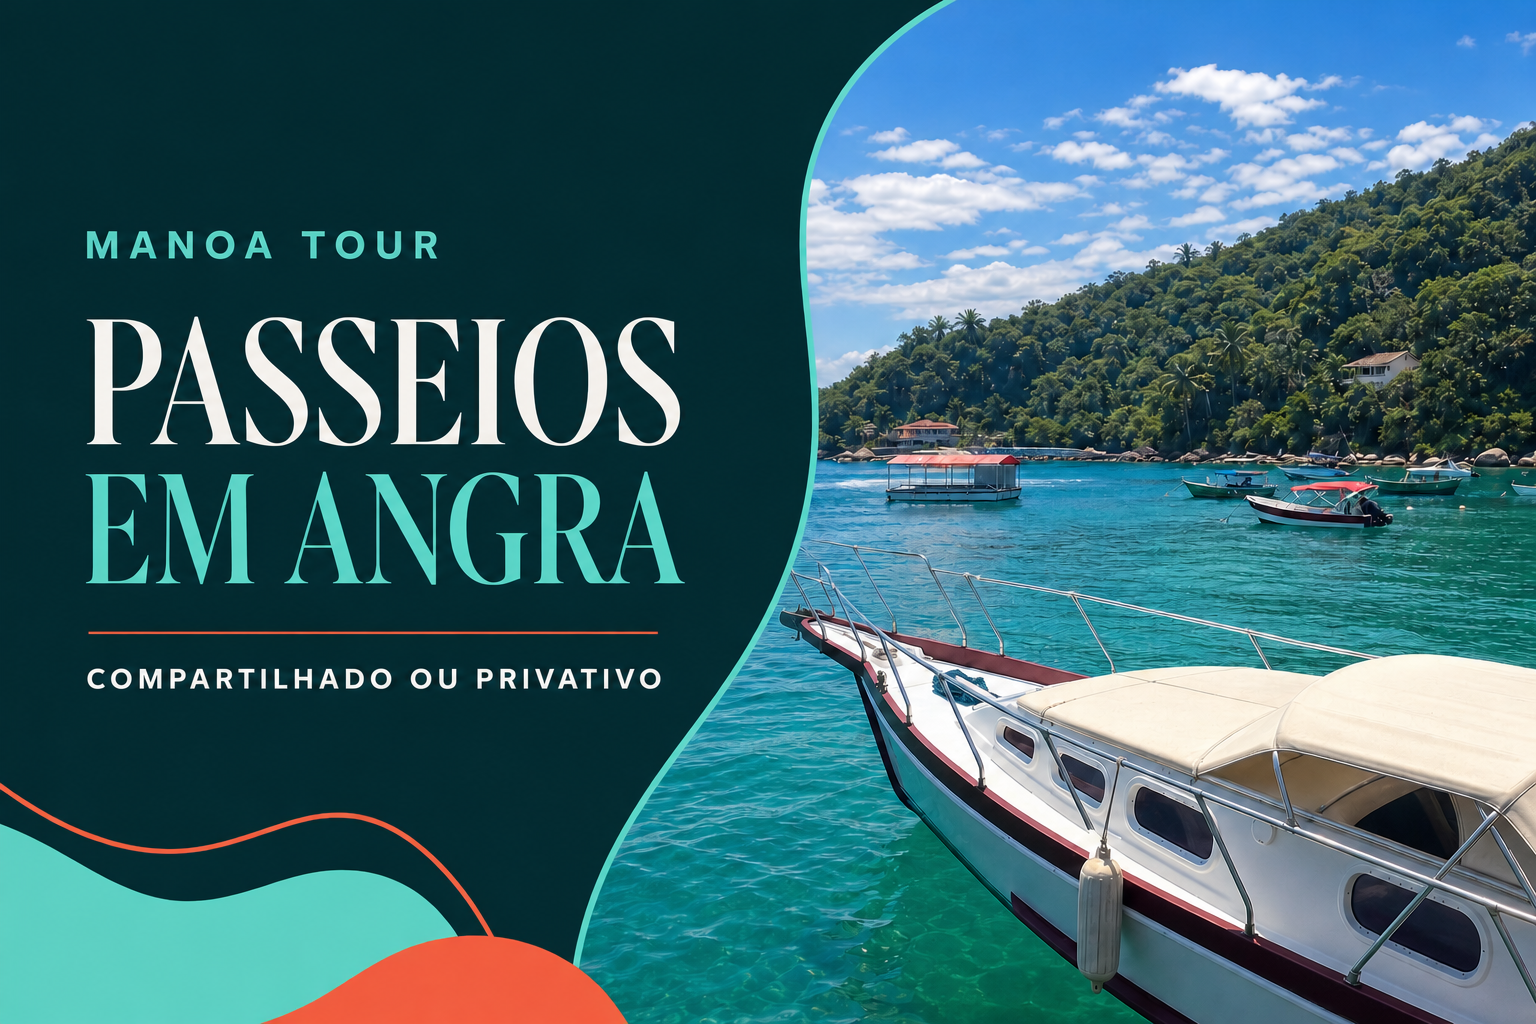
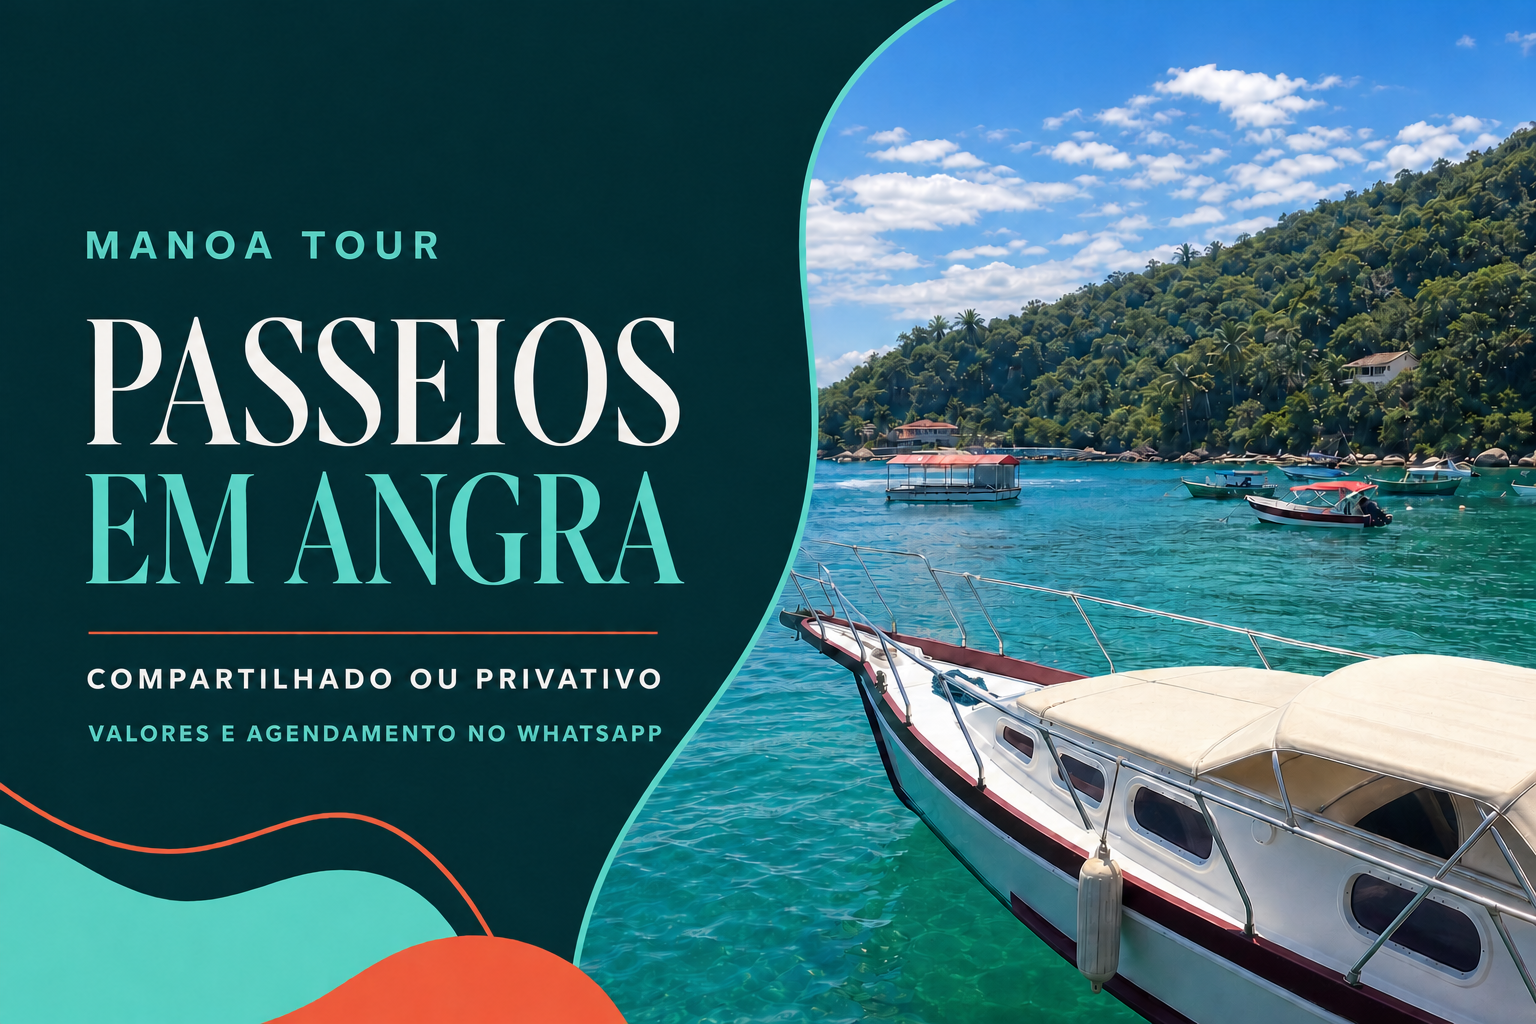
Clarify WhatsApp pricing and booking

diff --git a/app/page.tsx b/app/page.tsx
@@ -9,16 +9,16 @@ const bookingSteps = [
 
 const faqs = [
   {
-    question: "Como faço para consultar um passeio?",
-    answer: "Abra o canal oficial de contato, informe a data, a quantidade de pessoas e se procura passeio compartilhado ou privativo.",
+    question: "Como faço para agendar um passeio?",
+    answer: "Chame a Manoa pelo WhatsApp e informe a data, a quantidade de pessoas e se procura passeio compartilhado ou privativo.",
   },
   {
     question: "Os valores aparecem no site?",
-    answer: "Os valores e a disponibilidade são confirmados diretamente pela equipe, de acordo com a data e a experiência desejada.",
+    answer: "Os valores, as vagas, a disponibilidade e o agendamento são tratados diretamente com a equipe pelo WhatsApp.",
   },
   {
     question: "Posso conversar sobre a rota antes de reservar?",
-    answer: "Sim. O contato serve justamente para alinhar as possibilidades de rota e escolher uma experiência adequada ao seu grupo.",
+    answer: "Sim. Pelo WhatsApp, você pode alinhar as possibilidades de rota e escolher uma experiência adequada ao seu grupo.",
   },
   {
     question: "A Manoa oferece hospedagem?",
@@ -43,7 +43,7 @@ export default function Home() {
         </nav>
 
         <a className="header-cta" href={contactUrl} target="_blank" rel="noreferrer">
-          Consultar agora <span aria-hidden="true">↗</span>
+          Falar no WhatsApp <span aria-hidden="true">↗</span>
         </a>
 
         <details className="mobile-menu">
@@ -53,7 +53,7 @@ export default function Home() {
             <a href="#destinos">Destinos</a>
             <a href="#reserva">Como reservar</a>
             <a href="#duvidas">Dúvidas</a>
-            <a href={contactUrl} target="_blank" rel="noreferrer">Consultar passeio ↗</a>
+            <a href={contactUrl} target="_blank" rel="noreferrer">Falar no WhatsApp ↗</a>
           </nav>
         </details>
       </header>
@@ -71,7 +71,7 @@ export default function Home() {
               Ver opções de passeio <span aria-hidden="true">↓</span>
             </a>
             <a className="button button--ghost" href={contactUrl} target="_blank" rel="noreferrer">
-              Consultar disponibilidade <span aria-hidden="true">↗</span>
+              Valores e agendamento <span aria-hidden="true">↗</span>
             </a>
           </div>
           <div className="hero-proof" aria-label="Diferenciais da Manoa">
@@ -89,7 +89,7 @@ export default function Home() {
             <a href="#passeio-compartilhado"><span><b>01</b>Passeio compartilhado</span><i aria-hidden="true">↓</i></a>
             <a href="#passeio-privativo"><span><b>02</b>Passeio privativo</span><i aria-hidden="true">↓</i></a>
             <a href="#onde-ficar"><span><b>03</b>Dicas de onde ficar</span><i aria-hidden="true">↓</i></a>
-            <small>Valores e disponibilidade sob consulta.</small>
+            <small>Valores e agendamento direto no WhatsApp.</small>
           </div>
           <div className="location-badge"><span>RJ</span><strong>Angra dos Reis</strong><small>Costa Verde</small></div>
         </div>
@@ -109,7 +109,7 @@ export default function Home() {
           </div>
           <p>
             Comece pela opção que mais combina com a sua viagem. Depois, fale com a
-            Manoa para confirmar rota, data, disponibilidade e valor.
+            Manoa pelo WhatsApp para confirmar rota, data, disponibilidade, valor e agendamento.
           </p>
         </div>
 
@@ -128,8 +128,8 @@ export default function Home() {
                 <li>Compartilhado</li><li>Praias e ilhas</li><li>Consulta direta</li>
               </ul>
               <div className="tour-card__footer">
-                <span><small>Vagas e valor</small><strong>Sob consulta</strong></span>
-                <a className="circle-link" href={contactUrl} target="_blank" rel="noreferrer" aria-label="Consultar passeio compartilhado">↗</a>
+                <span><small>Valores e agendamento</small><strong>No WhatsApp</strong></span>
+                <a className="circle-link" href={contactUrl} target="_blank" rel="noreferrer" aria-label="Agendar passeio compartilhado pelo WhatsApp">↗</a>
               </div>
             </div>
           </article>
@@ -148,8 +148,8 @@ export default function Home() {
                 <li>Seu grupo</li><li>Mais privacidade</li><li>Rota conversada</li>
               </ul>
               <div className="tour-card__footer">
-                <span><small>Disponibilidade</small><strong>Sob consulta</strong></span>
-                <a className="circle-link" href={contactUrl} target="_blank" rel="noreferrer" aria-label="Consultar passeio privativo">↗</a>
+                <span><small>Valores e agendamento</small><strong>No WhatsApp</strong></span>
+                <a className="circle-link" href={contactUrl} target="_blank" rel="noreferrer" aria-label="Agendar passeio privativo pelo WhatsApp">↗</a>
               </div>
             </div>
           </article>
@@ -198,11 +198,11 @@ export default function Home() {
 
       <section className="booking-section" id="reserva">
         <div className="booking-copy">
-          <p className="eyebrow eyebrow--dark"><span /> Consulta rápida</p>
+          <p className="eyebrow eyebrow--dark"><span /> Agendamento pelo WhatsApp</p>
           <h2>Para começar, envie <em>só o essencial.</em></h2>
-          <p>Com três informações, a conversa já começa mais objetiva e a equipe consegue orientar melhor a sua escolha.</p>
+          <p>Com três informações, a conversa pelo WhatsApp já começa mais objetiva e a equipe consegue passar os valores e orientar sua escolha.</p>
           <a className="button button--primary" href={contactUrl} target="_blank" rel="noreferrer">
-            Consultar meu passeio <span aria-hidden="true">↗</span>
+            Agendar pelo WhatsApp <span aria-hidden="true">↗</span>
           </a>
         </div>
 
@@ -215,8 +215,8 @@ export default function Home() {
           ))}
           <div className="booking-summary">
             <span className="summary-mark" aria-hidden="true">M</span>
-            <div><small>Pronto para consultar?</small><strong>Data + pessoas + experiência</strong></div>
-            <a href={contactUrl} target="_blank" rel="noreferrer" aria-label="Abrir canal oficial da Manoa">↗</a>
+            <div><small>Pronto para agendar?</small><strong>Data + pessoas + experiência</strong></div>
+            <a href={contactUrl} target="_blank" rel="noreferrer" aria-label="Abrir WhatsApp da Manoa">↗</a>
           </div>
         </div>
       </section>
@@ -232,7 +232,7 @@ export default function Home() {
           <div className="why-list">
             <article><span>01</span><div><h3>Contato local</h3><p>Converse diretamente com quem conhece a região e as possibilidades de passeio.</p></div></article>
             <article><span>02</span><div><h3>Escolha orientada</h3><p>Entenda qual opção combina melhor com a data, o grupo e o ritmo da sua viagem.</p></div></article>
-            <article><span>03</span><div><h3>Informação antes de ir</h3><p>Alinhe rota, disponibilidade e o que precisa saber antes de confirmar.</p></div></article>
+            <article><span>03</span><div><h3>Informação antes de ir</h3><p>Alinhe rota, disponibilidade, valores e agendamento diretamente pelo WhatsApp.</p></div></article>
           </div>
         </div>
       </section>
@@ -241,7 +241,7 @@ export default function Home() {
         <div className="faq-title">
           <p className="eyebrow eyebrow--dark"><span /> Dúvidas frequentes</p>
           <h2>Reserve com<br /><em>mais segurança.</em></h2>
-          <p>As condições finais são sempre confirmadas pelo canal oficial da Manoa.</p>
+          <p>Valores, disponibilidade e agendamento são sempre confirmados pelo WhatsApp da Manoa.</p>
         </div>
         <div className="faq-list">
           {faqs.map((faq, index) => (
@@ -258,10 +258,10 @@ export default function Home() {
         <div className="cta-card">
           <p className="eyebrow eyebrow--dark"><span /> Angra está te esperando</p>
           <h2>Escolha a data.<br /><em>A Manoa ajuda no resto.</em></h2>
-          <p>Consulte passeio compartilhado ou privativo e peça dicas de parceiros para ficar na região.</p>
+          <p>Valores e agendamento de passeios compartilhados ou privativos são tratados diretamente pelo WhatsApp.</p>
           <div className="cta-actions">
             <a className="button button--dark" href={contactUrl} target="_blank" rel="noreferrer">
-              Consultar agora <span aria-hidden="true">↗</span>
+              Falar no WhatsApp <span aria-hidden="true">↗</span>
             </a>
             <a className="instagram-link" href={instagramUrl} target="_blank" rel="noreferrer">Ver @manoa.tour</a>
           </div>
@@ -274,11 +274,11 @@ export default function Home() {
           <span><strong>manoa.tour</strong><small>Angra dos Reis</small></span>
         </a>
         <p>Passeios compartilhados • passeios privativos • dicas de parceiros</p>
-        <div><a href={instagramUrl} target="_blank" rel="noreferrer">Instagram ↗</a><a href={contactUrl} target="_blank" rel="noreferrer">Contato ↗</a></div>
+        <div><a href={instagramUrl} target="_blank" rel="noreferrer">Instagram ↗</a><a href={contactUrl} target="_blank" rel="noreferrer">WhatsApp ↗</a></div>
       </footer>
 
-      <a className="floating-cta" href={contactUrl} target="_blank" rel="noreferrer" aria-label="Consultar passeio com a Manoa">
-        <span>Consultar passeio</span><b aria-hidden="true">↗</b>
+      <a className="floating-cta" href={contactUrl} target="_blank" rel="noreferrer" aria-label="Agendar passeio com a Manoa pelo WhatsApp">
+        <span>Agendar no WhatsApp</span><b aria-hidden="true">↗</b>
       </a>
     </main>
   );

diff --git a/app/layout.tsx b/app/layout.tsx
@@ -3,21 +3,21 @@ import "./globals.css";
 
 export const metadata: Metadata = {
   title: "Manoa Tour | Reserve seu passeio em Angra dos Reis",
-  description: "Consulte passeios compartilhados ou privativos em Angra dos Reis e receba dicas de parceiros para ficar na região.",
+  description: "Passeios compartilhados ou privativos em Angra dos Reis, com valores e agendamento direto pelo WhatsApp.",
   icons: {
     icon: "/manoa-profile.jpg",
     apple: "/manoa-profile.jpg",
   },
   openGraph: {
     title: "Manoa Tour | Passeios em Angra dos Reis",
-    description: "Passeios compartilhados ou privativos em Angra dos Reis e Ilha Grande.",
+    description: "Passeios compartilhados ou privativos, com valores e agendamento direto pelo WhatsApp.",
     type: "website",
     images: [{ url: "/og.png", width: 1536, height: 1024, alt: "Manoa Tour — passeios em Angra dos Reis" }],
   },
   twitter: {
     card: "summary_large_image",
     title: "Manoa Tour | Passeios em Angra dos Reis",
-    description: "Consulte seu próximo passeio por Angra e Ilha Grande.",
+    description: "Valores e agendamento do seu passeio direto pelo WhatsApp.",
     images: ["/og.png"],
   },
 };
